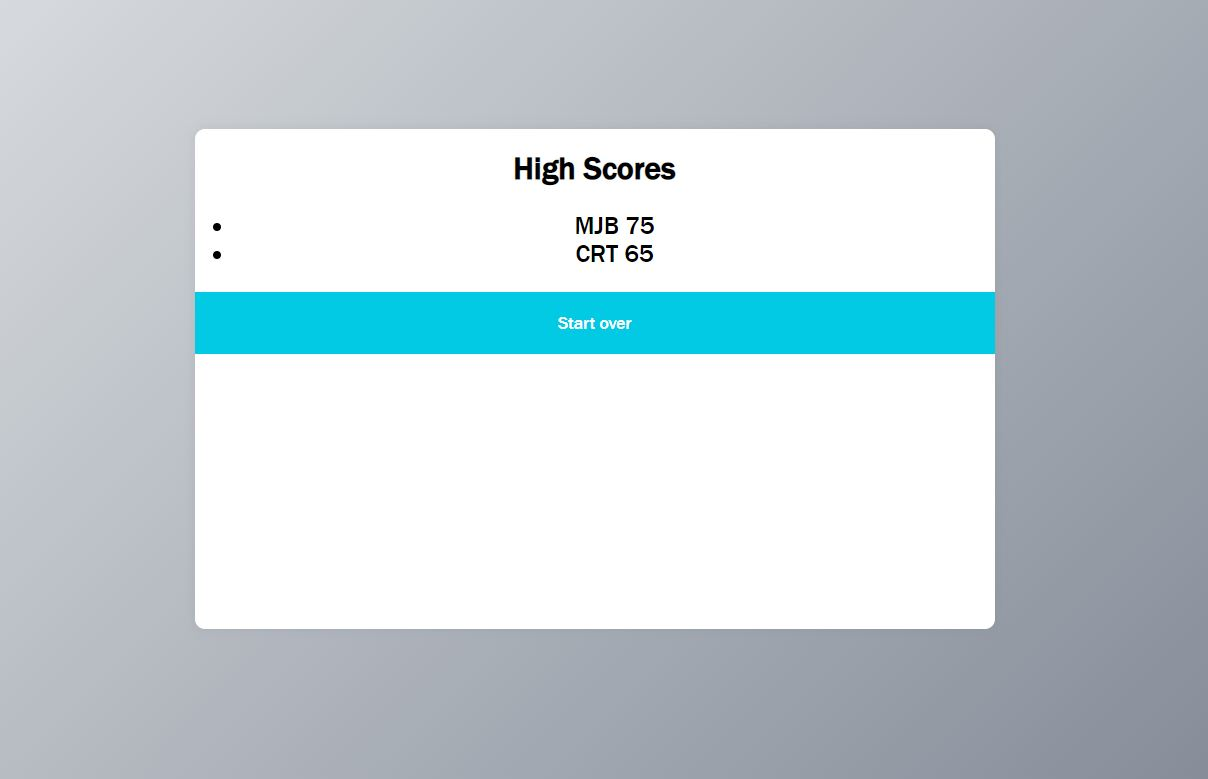
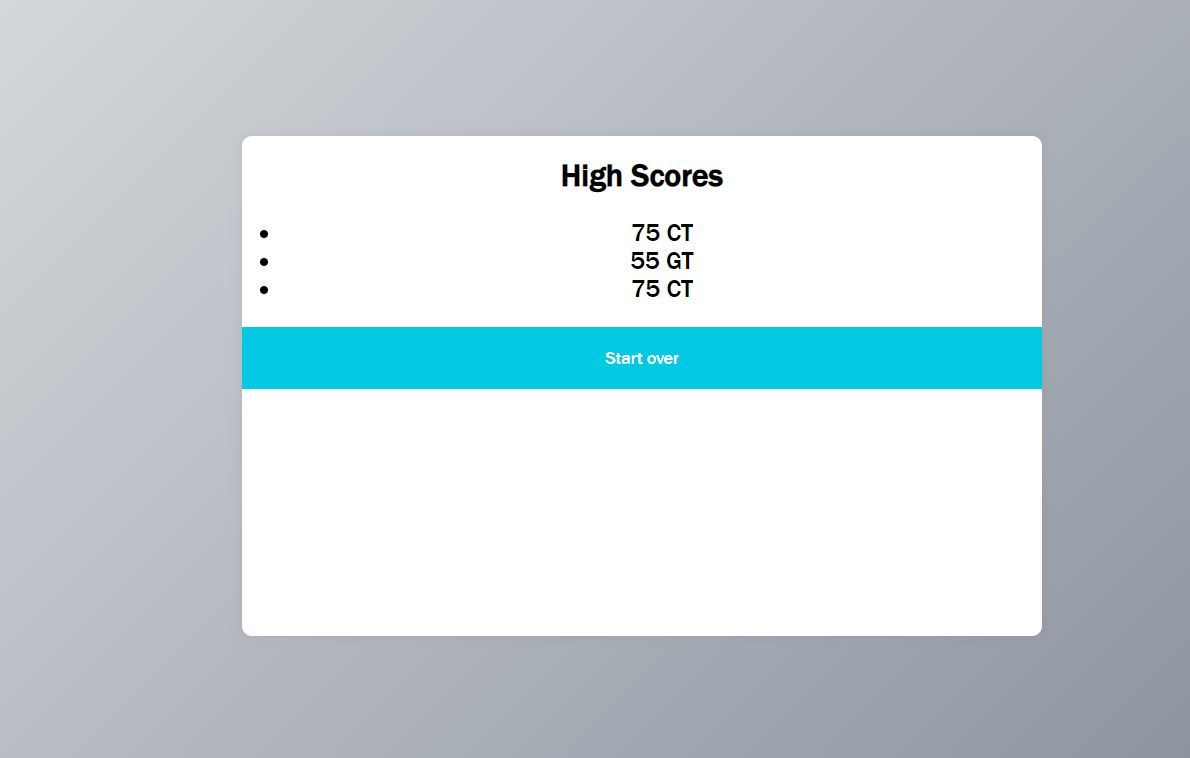
edited readme to fix links and updates image3

Changed region(s): [[0.1555, 0.1517, 0.9017, 0.8496]]

diff --git a/README.md b/README.md
@@ -1,7 +1,7 @@
 # Quizzy
 
 ### a short coding quiz game
-When you start the quiz the timer starts counting down from 75 seconds and a question is presented to be answered. If you answer all questions correctly in less than 75 seconds you win and your score will be displayed. If you answer a question incorrectly 10 seconds will be taken off the timer. After the quiz is over you can see the high scores.
+When you start the quiz the timer starts counting down from 75 seconds and a question is presented to be answered. If you answer all questions correctly in less than 75 seconds you win and your score and initials will be displayed on the high scores page. If you answer a question incorrectly 10 seconds will be taken off the timer.
 
 ## Screenshot
 ![picture of the website](./assets/images/quizzy1.jpg)
@@ -10,8 +10,8 @@ When you start the quiz the timer starts counting down from 75 seconds and a que
 
 ## Github repository
 
-https://github.com/ctowns5/quizzy
+https://github.com/ctowns5/Quizzy
 
 ## The URL of the deployed application
 
-https://ctowns5.github.io/placeholder/
+https://ctowns5.github.io/Quizzy/
